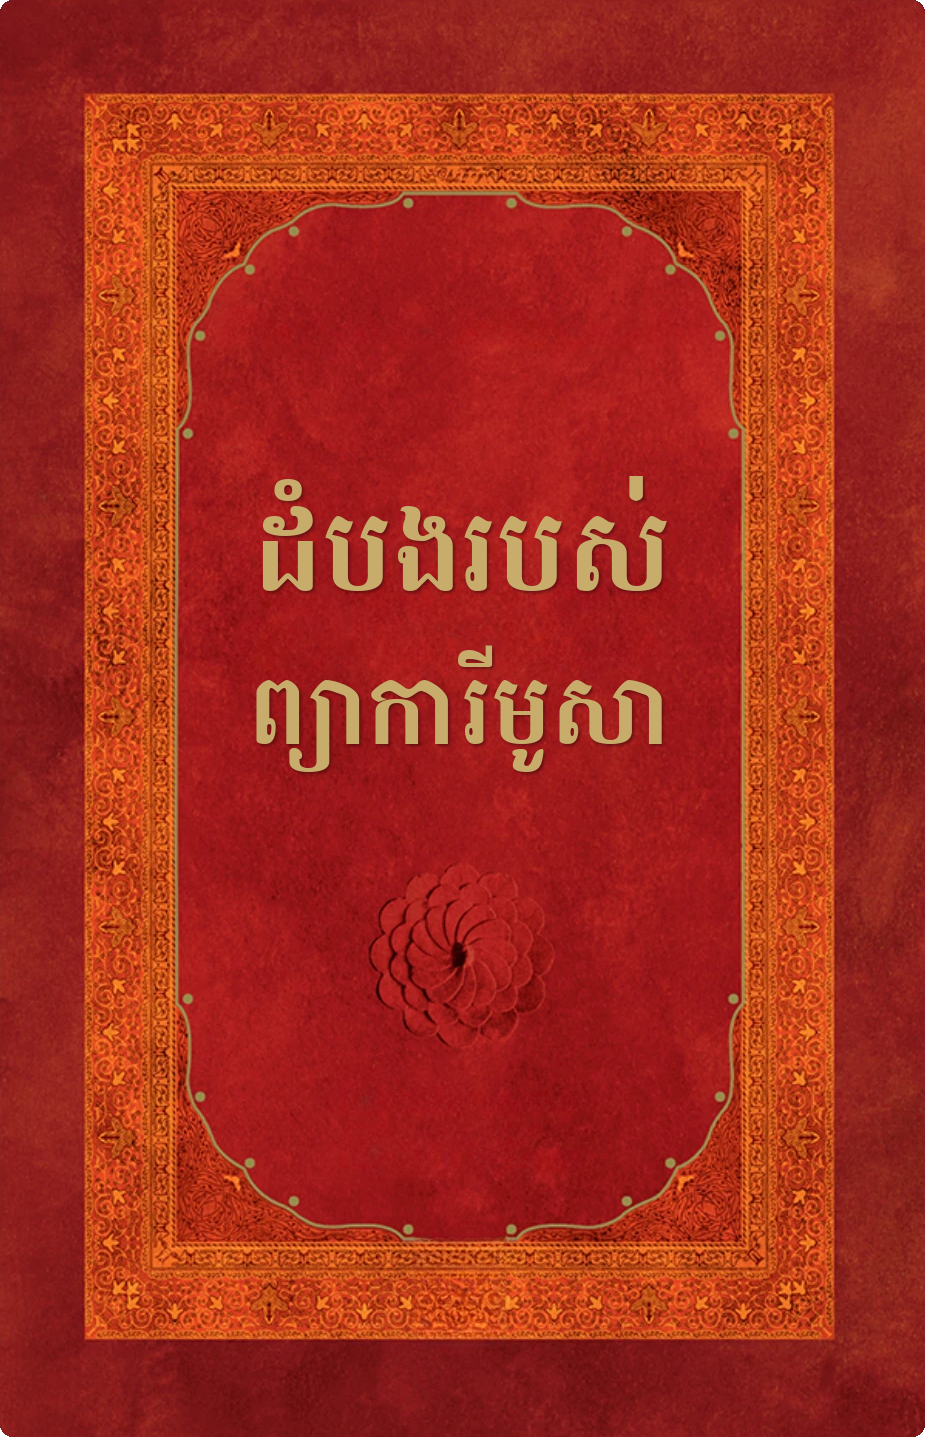
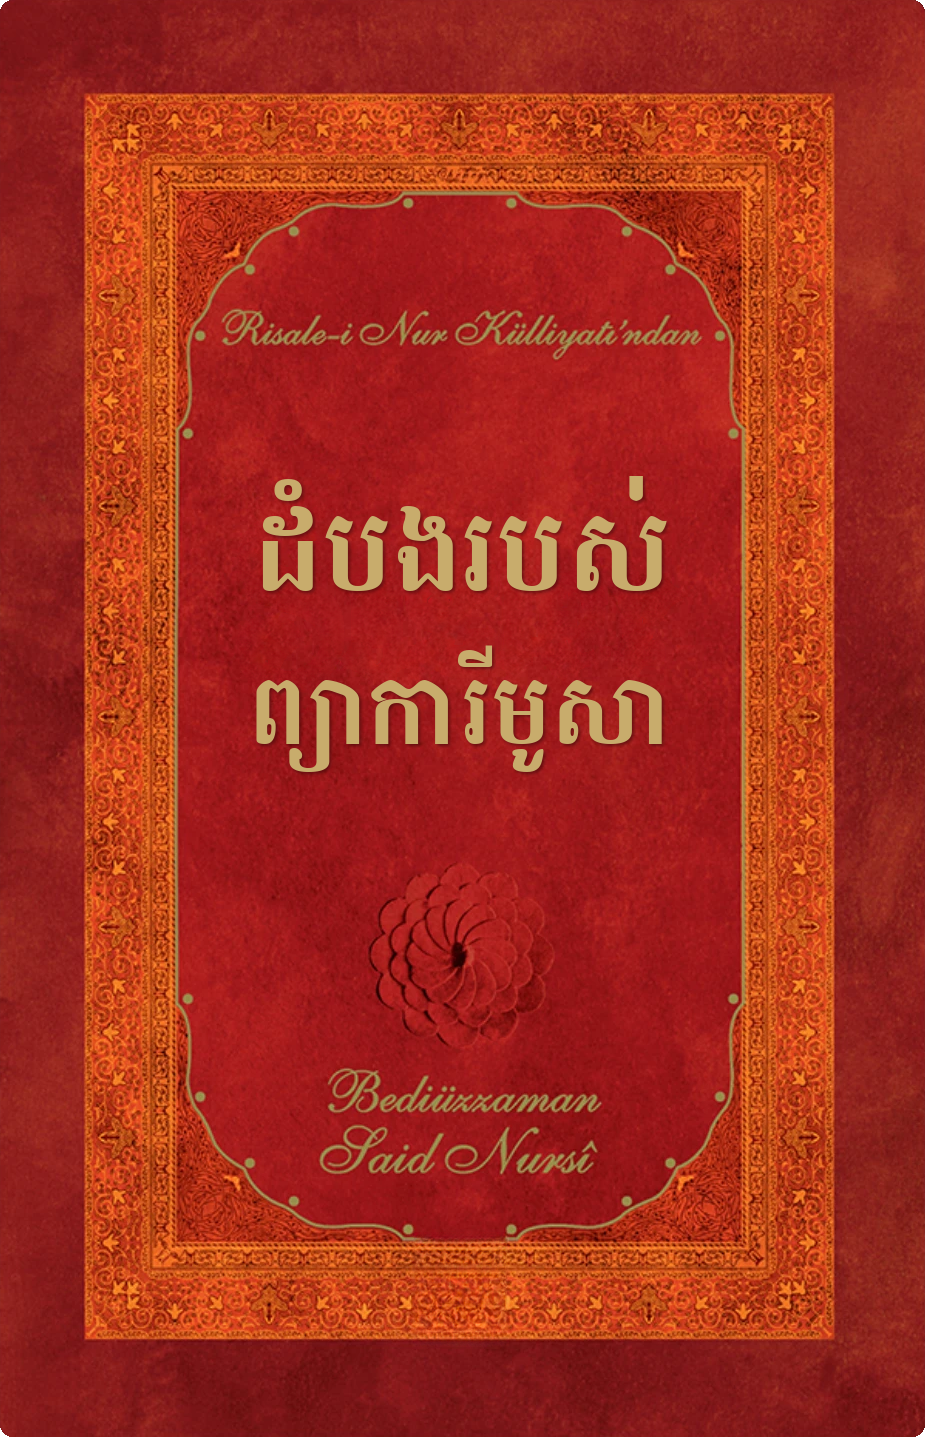
Asâ-yı Mûsâ: keep the Risale-i Nur line and the author (Risale-i Nur rule)
Claude-Session: https://claude.ai/code/session_01HzzWWnp1YQyDSmbqFiedxq

Changed region(s): [[0.333, 0.7349, 0.6659, 0.8267], [0.2422, 0.2143, 0.7568, 0.245]]

diff --git a/covers/asa/erase_title.py b/covers/asa/erase_title.py
@@ -1,5 +1,5 @@
-"""Remove the "Asâ-yı Mûsâ" title, the "Risale-i Nur Külliyatı'ndan" line, the author name and the publisher logo
-(LaMa; gold-letter masks on the red velvet, a box for the logo on the ornate border).
+"""Remove the title and the publisher logo (LaMa; gold-letter mask on the red velvet, a box for the logo on the
+ornate border). The "Risale-i Nur Külliyatı'ndan" line and "Bediüzzaman Said Nursî" stay, as the user asked.
 
     python3 erase_title.py path/to/big-lama.pt
 """
@@ -15,9 +15,8 @@ HERE = Path(__file__).parent
 SRC = HERE / "asa-source-hq.webp"     # clearer screenshot of the same series design (the Sözler cover)
 DST = HERE / "asa-notitle-source.png"
 # gold letters on the red velvet: (box, green-channel lift above the local background, dilation)
-REGIONS = [((230, 316, 726, 374), 28, 7),      # "Risale-i Nur Külliyatı'ndan"
-           ((238, 495, 714, 750), 28, 9),      # title (Sözler on this screenshot)
-           ((318, 1070, 642, 1202), 28, 7)]    # author
+# Risale-i Nur books keep the "Risale-i Nur Külliyatı'ndan" line and the author (user's rule), so only the title goes.
+REGIONS = [((238, 495, 714, 750), 28, 9)]      # title (Sözler on this screenshot)
 BOXES = [(429, 1243, 525, 1358)]               # publisher logo on the ornate border
 CONTEXT = (0, 1472)                            # rows handed to LaMa (multiple of 8)
 COLS = (0, 960)

diff --git a/covers/asa/make_khmer.py b/covers/asa/make_khmer.py
@@ -1,6 +1,6 @@
 """Khmer edition of "Asâ-yı Mûsâ": ដំបងរបស់ / ព្យាការីមូសា (the translation's own words, chapter 1
 "ផ្នែកទីមួយនៃដំបងរបស់ព្យាការីមូសា"). Gold letters with a faint dark emboss on the red velvet, like the
-original; no author, no publisher logo, no "Risale-i Nur Külliyatı'ndan" line.
+original; the "Risale-i Nur Külliyatı'ndan" line and the author stay as printed (Risale-i Nur rule), no logo.
 
     python3 make_khmer.py [--hd] [--font Battambang]
 Writes khmer.png (925x1437) or khmer-hd.png (3700x5748).

diff --git a/covers/README.md b/covers/README.md
@@ -287,12 +287,13 @@ series' Khmer translation uses), dark teal Freehand script with a soft shadow li
 
 ## Asâ-yı Mûsâ (`asa/`)
 
-- `erase_title.py`: gold title, "Risale-i Nur Külliyatı'ndan" line and author removed (green-channel letter masks
-  on the red velvet), publisher logo removed from the ornate border (box). Built from `asa-source-hq.webp`, the
+- `erase_title.py`: gold title removed (green-channel letter mask on the red velvet), publisher logo removed from
+  the ornate border (box). The "Risale-i Nur Külliyatı'ndan" line and "Bediüzzaman Said Nursî" are kept
+  (user's rule for Risale-i Nur books). Built from `asa-source-hq.webp`, the
   user's clearer screenshot of the same series design (the Sözler cover, 962 px wide; its "Sözler" title is erased);
   `asa-source.webp` is the original small Asâ-yı Mûsâ screenshot. The same clean art can serve Sözler later.
 - `make_khmer.py [--hd]`: **ដំបងរបស់ / ព្យាការីមូសា** — the translation's own words (chapter 1
-  "ផ្នែកទីមួយនៃដំបងរបស់ព្យាការីមូសា"); Battambang, gold with a faint dark emboss. No author, no number.
+  "ផ្នែកទីមួយនៃដំបងរបស់ព្យាការីមូសា"); Battambang, gold with a faint dark emboss. No number.
 - Interior from Drive ("Asayi Musa.pdf"): A5, 438 pages, page 2 blank; `fix_gutter.py` shifted 0.088 in
   (inside 0.645 ≥ 0.625 in) and removed the cream fill → `interior/asa-musa-interior-kdp.pdf`.
 - KDP: A5, 438 pages → spine 1.095 in (cream) / 0.986 in (white), `--theme asa` (no band, dark red spine, gold

diff --git a/CLAUDE.md b/CLAUDE.md
@@ -28,6 +28,9 @@ Interiors are NOT in git (`covers/interior/` is ignored): re-download them from 
 ## Title rules the user confirmed / conventions
 - Use the Khmer title printed in the translation (title page, foreword) when one exists; otherwise build it
   from the translators' own vocabulary and ask the user to confirm.
+- Risale-i Nur books (Bediüzzaman Said Nursî, e.g. Asâ-yı Mûsâ, Sözler): KEEP the "Risale-i Nur Külliyatı'ndan"
+  line and the author name as printed (user's rule); only the title (and publisher logo) is replaced.
+  The no-author rule applies to the M. Fethullah Gülen books.
 - **All Khmer text on every cover and spine is Battambang** (user's decision; numbers stay Cormorant Garamond).
   Prizma series title ព្រិស្មា; Kırık Testi series ក្អមបែក, dark red + dark brown lines.
 - After any builder change, `python3 covers/kdp/rebuild_all.py [keys]` rebuilds the finished books' KDP covers
